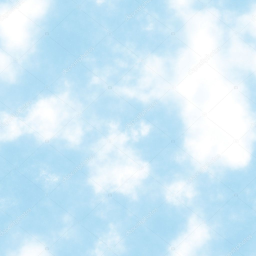
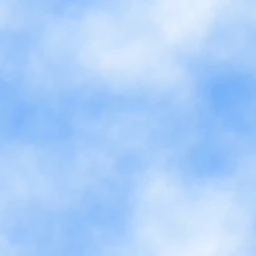
make ground level change every render

diff --git a/archergame.js b/archergame.js
@@ -8,7 +8,7 @@ const {Rounded_Capped_Cylinder, Square, Axis_Arrows, Textured_Phong, Grid_Sphere
 
 //variables
 let t;
-
+let level = Math.floor(Math.random()*(-95 +125))-125;
 
 
 class Arrow extends Shape {
@@ -39,13 +39,16 @@ class Base_Scene extends Scene {
 
             square: new Square(),
             ground: new Square(),
+            ground2: new Square(),
             tower: new Square(),
             bomb: new Grid_Sphere(),
             arrow: new Arrow(),
+            sky: new Square(),
 
         };
 
         this.shapes.ground.arrays.texture_coord = this.shapes.ground.arrays.texture_coord.map(v => vec(v[0]*3, v[1]*3))
+        this.shapes.ground2.arrays.texture_coord = this.shapes.ground2.arrays.texture_coord.map(v => vec(v[0]*3, v[1]*3))
 
 
         // *** Materials
@@ -80,7 +83,12 @@ class Base_Scene extends Scene {
                 color: hex_color("#000000"),
                 ambient: 0.9, diffusivity: 0.1, specularity: 0.1,
                 texture: new Texture("assets/bomb.png", "LINEAR_MIPMAP_LINEAR")
-             })
+             }),
+             sky: new Material(new Textured_Phong(), {
+                color: hex_color("#000000"),
+                ambient: 0.9, diffusivity: 0.1, specularity: 0.1,
+                texture: new Texture("assets/sky.png", "LINEAR_MIPMAP_LINEAR")
+             }),
         };
     }
 
@@ -152,7 +160,9 @@ class Projectile {
 
     // Call once per frame
     update(context, program_state) {
-        if(this.y>0) {
+//         console.log(level + 102.5)
+        if(this.y > level + 102.5) {
+           
           this.dy -= .00861
           console.log("dy: "+ this.dy)
           this.x += this.dx;
@@ -199,11 +209,14 @@ export class ArcherGame extends Base_Scene {
         this.origin = new Element(0, 0, 1, this.materials.plastic.override({
             color: hex_color("#ffffff")
         }), 0, 0);
+        
 
         this.tower = new Element(0, 0, 10, this.materials.tower, 0, 0);
+        this.sky = new Element(0, 0, 30, this.materials.sky, 0, -1);
         this.archer = new Element(-20, 2.5, 5, this.materials.tank, 0, 0);
-        this.target = new Element(20, 2, 5, this.materials.bunker, 0, 0);
-        this.ground = new Element(0, -102.5, 100, this.materials.grass, 0, 0, 1.1);        
+        this.target = new Element(20, level + 104.5, 5, this.materials.bunker, 0, 0);
+        this.ground = new Element(-97, -102.5, 100, this.materials.grass, 0, 0, 1.1); 
+        this.ground2 = new Element(97, level, 100, this.materials.grass, 0, 0, 1.1);       
         this.angle = 45;
         this.speed = 50;
     }
@@ -227,10 +240,12 @@ export class ArcherGame extends Base_Scene {
 
     randomize_parameters() {
         this.target.scale = 1 + 10 * Math.random();
-        const min = this.target.scale;
+        const min = 10;
         const max = 30;
         this.target.x = min + Math.random() * (max - min);
-        this.target.y = min + Math.random() * (max - min);
+        this.target.y = level + 104.5 - 4/this.target.scale;
+//         level = Math.floor(Math.random()*(-95 +125))-125;
+//         this.target.y = min + Math.random() * (max - min);
     }
 
     shootProjectile() {
@@ -241,12 +256,13 @@ export class ArcherGame extends Base_Scene {
     }
 
     drawObjects(context, program_state) {
-
+//         this.shapes.sky.draw(context, program_state, ...this.sky.update(context, program_state));
         this.shapes.tower.draw(context, program_state, 
             Mat4.identity().times(Mat4.scale(3, 10, 1)).times(Mat4.translation(0, 0.75, 0))
         , this.materials.tower)
-        //this.shapes.square.draw(context, program_state, ...this.archer.update(context, program_state));
+//         this.shapes.square.draw(context, program_state, ...this.archer.update(context, program_state));
         this.shapes.ground.draw(context, program_state, ...this.ground.update(context, program_state));
+        this.shapes.ground2.draw(context, program_state, ...this.ground2.update(context, program_state));
         this.shapes.square.draw(context, program_state, ...this.target.update(context, program_state));
 
         const [archer_transform, archer_mat] = this.archer.update(context, program_state);
